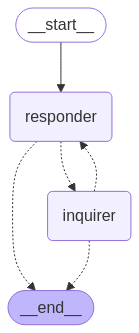
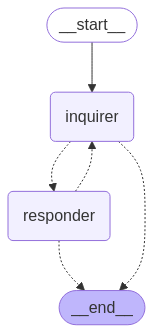
update

diff --git a/Dialogue/main.py b/Dialogue/main.py
@@ -7,6 +7,8 @@ from PIL import Image as PILImage
 import io
 from models import *
 from prompts import GET_PROMPT
+import pandas as pd
+from tqdm import tqdm
 
 class State(TypedDict):
     # Messages have the type "list". The `add_messages` function
@@ -14,31 +16,38 @@ class State(TypedDict):
     # (in this case, it appends messages to the list, rather than overwriting them)
     messages: Annotated[list, add_messages]
     turns: int
+    inquirer_system_prompt: str
     inquirer_prompt: str
-    responder_prompt: str
+    responder_system_prompt: str
 
 def inquirer(state: State):
-    # system_message = SystemMessage(content="You are an inquirer. Please ask a question about ETHZ.")
+    inquirer_system_prompt = SystemMessage(content=state["inquirer_system_prompt"])
     inquirer_prompt = HumanMessage(content=state["inquirer_prompt"])
-    inquirer_message = state["messages"] + [inquirer_prompt]
-    # print("inquirer_message", inquirer_message)
+    inquirer_message = [inquirer_system_prompt] + state["messages"] + [inquirer_prompt]
     inquirer_response = inquirer_llm.invoke(inquirer_message)
-    # print("llm_response", llm_response)
-    return {"messages": [HumanMessage(content=inquirer_response.content)], "turns": state["turns"] + 1}
+    return {"messages": [HumanMessage(
+        content=inquirer_response.content,
+        additional_kwargs={"source": "generated"}
+    )], "turns": state["turns"] + 1}
 
 def responder(state: State):
-    responder_prompt = SystemMessage(content=state["responder_prompt"])
+    responder_prompt = SystemMessage(content=state["responder_system_prompt"])
     responder_message = [responder_prompt] + state["messages"]
-    return {"messages": [responder_llm.invoke(responder_message)], "turns": state["turns"] + 1}
+    response = responder_llm.invoke(responder_message)
+    return {"messages": [AIMessage(
+        content=response.content,
+        additional_kwargs={"source": "generated"}
+    )], "turns": state["turns"] + 1}
 
 def max_turns_condition(state: State):
-    if state['turns'] >= 7:
+    if state['turns'] >= 10:
         return END
     else:
         return "inquirer"
 
-def proper_content_condition(state: State):
-    if False:
+def content_condition(state: State):
+    content = state["messages"][-1].content
+    if '<EOD>' in content:
         return END
     else:
         return "responder"
@@ -47,40 +56,57 @@ graph_builder = StateGraph(State)
 graph_builder.add_node("inquirer", inquirer)
 graph_builder.add_node("responder", responder)
 
-graph_builder.add_edge(START, "responder")
+graph_builder.add_edge(START, "inquirer")
 graph_builder.add_conditional_edges("responder", max_turns_condition)
-graph_builder.add_conditional_edges("inquirer", proper_content_condition)
+graph_builder.add_conditional_edges("inquirer", content_condition)
 
 graph = graph_builder.compile()
 
-# draw the graph
-# image_bytes = graph.get_graph().draw_mermaid_png()
-# image = PILImage.open(io.BytesIO(image_bytes))
-# image.save("/work/courses/dslab/team3/Human_Chatbot-Generation/Dialogue/graph.png")
+# raw the graph
+image_bytes = graph.get_graph().draw_mermaid_png()
+image = PILImage.open(io.BytesIO(image_bytes))
+image.save("/work/courses/dslab/team3/Human_Chatbot-Generation/Dialogue/graph.png")
 
 
 # INFERENCE PART
 
-inquirer_llm = DeepSeek
+inquirer_llm = GPT4o
 responder_llm = GPT4oMini
-INQUIRER_PROMPT, RESPONDER_PROMPT = GET_PROMPT()
+INQUIRER_SYSTEM_PROMPT, INQUIRER_PROMPT, RESPONDER_SYSTEM_PROMPT = GET_PROMPT()
 
-def stream_graph_updates(user_input: str):
-    print("Human: " + user_input)
-    initial_state = {"messages": [{"role": "user", "content": user_input}], 
-                    "turns": 0, 
-                    "inquirer_prompt": INQUIRER_PROMPT, 
-                    "responder_prompt": RESPONDER_PROMPT}
-    for event in graph.stream(initial_state):
-        for value in event.values():
-            if value["messages"][-1].type == "human":
-                print("(AI) Human:", value["messages"][-1].content)
-            elif value["messages"][-1].type == "ai":
-                print("Chatbot:", value["messages"][-1].content)
-            else:
-                raise ValueError("Unknown message type")
+def graph_update(qa_history: list):
+    messages = []
+    for index, text in enumerate(qa_history):
+        if index % 2 == 0:
+            messages.append(HumanMessage(content=text, additional_kwargs={"source": "qa_history"}))
+        else:
+            messages.append(AIMessage(content=text, additional_kwargs={"source": "qa_history"}))
+    initial_state = {"messages": messages, 
+                    "turns": len(messages), 
+                    "inquirer_system_prompt": INQUIRER_SYSTEM_PROMPT,
+                    "inquirer_prompt": INQUIRER_PROMPT,
+                    "responder_system_prompt": RESPONDER_SYSTEM_PROMPT}
+    final_state = graph.invoke(initial_state)
+    return final_state
 
-        # fallback if input() is not available
+
 if __name__ == "__main__":
-    user_input = "Hello! Could you tell me something about RTX4090?"
-    stream_graph_updates(user_input)
+    df = pd.read_csv('data/qa_test.csv')
+    results = pd.DataFrame(columns=['seed','dialogues'])
+    for index, row in tqdm(df.iterrows(), total=len(df)):
+        qa_history = [row['question'], row['answer']]
+        final_state = graph_update(qa_history)
+        # for message in final_state["messages"]:
+        #     if message.additional_kwargs["source"] == "qa_history":
+        #         if message.type == "human":
+        #             print("Human (Seed): " + message.content)
+        #         elif message.type == "ai":
+        #             print("Chatbot (Seed): " + message.content)
+        #     else:
+        #         if message.type == "human":
+        #             print("Human (Generated): " + message.content)
+        #         elif message.type == "ai":
+        #             print("Chatbot (Generated): " + message.content)
+        results.loc[index] = [qa_history, [m.content for m in final_state["messages"]]]
+    
+    results.to_csv('results/results_qa_test.csv', index=False)

diff --git a/Dialogue/models.py b/Dialogue/models.py
@@ -5,6 +5,13 @@ from langchain_huggingface import ChatHuggingFace
 from langchain_deepseek import ChatDeepSeek
 import yaml
 import os
+from huggingface_hub import InferenceClient
+from langchain.schema import HumanMessage, AIMessage, SystemMessage
+
+
+from pydantic import Field
+from typing import List
+
 
 api_path = 'api.yaml'
 api_keys = yaml.safe_load(open(api_path, 'r'))
@@ -12,6 +19,47 @@ api_keys = yaml.safe_load(open(api_path, 'r'))
 setting_path = 'setting.yaml'
 setting = yaml.safe_load(open(setting_path, 'r'))
 
+
+# HuggingFace Serverless Inference
+class ChatHuggingFaceInference:
+    def __init__(self, api_key, model, provider, temperature, max_tokens, max_retries):
+        self.client = InferenceClient(provider=provider, api_key=api_key)
+        self.model = model
+        self.temperature = temperature
+        self.max_tokens = max_tokens
+        self.max_retries = max_retries
+
+    def invoke(self, messages):
+        # Convert LangChain message objects to dictionaries
+        formatted_messages = []
+        for message in messages:
+            if isinstance(message, HumanMessage):
+                formatted_messages.append({"role": "user", "content": message.content})
+            elif isinstance(message, AIMessage):
+                formatted_messages.append({"role": "assistant", "content": message.content})
+            elif isinstance(message, SystemMessage):
+                formatted_messages.append({"role": "system", "content": message.content})
+            else:
+                raise ValueError(f"Unknown message type: {type(message)}")
+
+        # print("Formatted message: ", formatted_messages)
+        # Call Hugging Face Inference API
+        response = self.client.chat.completions.create(
+            model=self.model,
+            messages=formatted_messages,  # Use converted messages
+            max_tokens=self.max_tokens,
+        )
+
+        # Return the assistant's response
+        return AIMessage(content=response.choices[0].message["content"])
+
+
+
+
 GPT4o = ChatOpenAI(api_key=api_keys['openai'], model=setting['gpt4o']['model'], temperature=setting['gpt4o']['temperature'], max_tokens=setting['gpt4o']['max_tokens'], max_retries=setting['gpt4o']['max_retries'])
 GPT4oMini = ChatOpenAI(api_key=api_keys['openai'], model=setting['gpt4o-mini']['model'], temperature=setting['gpt4o-mini']['temperature'], max_tokens=setting['gpt4o-mini']['max_tokens'], max_retries=setting['gpt4o-mini']['max_retries'])
 DeepSeek = ChatDeepSeek(api_key=api_keys['deepseek'], model=setting['deepseek']['model'], temperature=setting['deepseek']['temperature'], max_tokens=setting['deepseek']['max_tokens'], max_retries=setting['deepseek']['max_retries'])
+Claude3_7 = ChatAnthropic(api_key=api_keys['anthropic'], model=setting['claude3_7']['model'], temperature=setting['claude3_7']['temperature'], max_tokens=setting['claude3_7']['max_tokens'], max_retries=setting['claude3_7']['max_retries'])
+GeminiFlash = ChatGoogleGenerativeAI(google_api_key=api_keys['google'], model=setting['GeminiFlash']['model'], temperature=setting['GeminiFlash']['temperature'], max_tokens=setting['GeminiFlash']['max_tokens'], max_retries=setting['GeminiFlash']['max_retries'])
+llama3_2_3B = ChatHuggingFaceInference(api_key=api_keys['huggingface'],model=setting['llama3_2_3B']['model'], provider = setting['llama3_2_3B']['provider'], temperature=setting['llama3_2_3B']['temperature'], max_tokens=setting['llama3_2_3B']['max_tokens'], max_retries=setting['llama3_2_3B']['max_retries'] )
+llama3_3_70B = ChatHuggingFaceInference(api_key=api_keys['huggingface'],model=setting['llama3_3_70B']['model'], provider = setting['llama3_3_70B']['provider'], temperature=setting['llama3_3_70B']['temperature'], max_tokens=setting['llama3_3_70B']['max_tokens'], max_retries=setting['llama3_3_70B']['max_retries'] )

diff --git a/Dialogue/prompts.py b/Dialogue/prompts.py
@@ -1,9 +1,12 @@
 ROLES = ["Human", "Older", "Younger", "Foreigner"]
 
-INQUIRER_PROMPT = "Please act like you are a human chatting with the chatbot. Say something according to the above context\
-        to complete the conversation. The length limit is 10 words."
+INQUIRER_SYSTEM_PROMPT = "You are a helpful assistant. Please follow the given instructions."
 
-RESPONDER_PROMPT = "You are a helpful assistant. Please answer the question no longer than 10 words."
+INQUIRER_PROMPT = "The conversation above is from a conversation between a human and a chatbot. Now please play the role of the human.\
+Your task is to determine whether the chatbot's answer clarify your initial question clearly and provide detailed information. If it does, please output <EOD>.\
+Otherwise, please comment on the answer and ask a follow-up question to continue the conversation. Do not make statements. Output in human style. Do not output in chatbot style."
+
+RESPONDER_SYSTEM_PROMPT = "You are a helpful assistant. Your output should be no longer than 50 tokens."
 
 def GET_PROMPT(role=0):
-    return INQUIRER_PROMPT, RESPONDER_PROMPT
+    return INQUIRER_SYSTEM_PROMPT, INQUIRER_PROMPT, RESPONDER_SYSTEM_PROMPT
